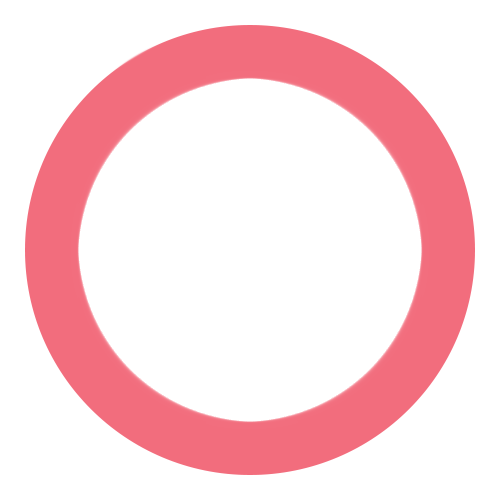
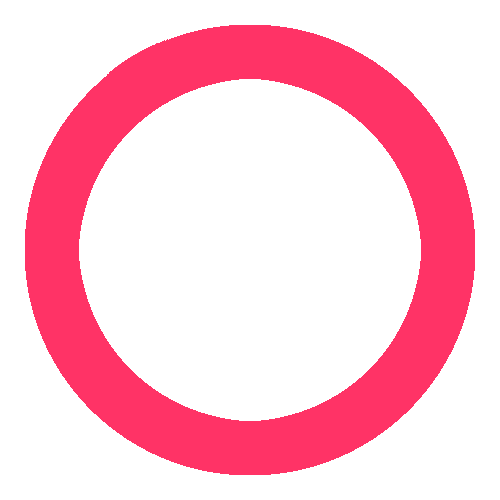
Style improvements, Info component with styling, added global styles for react index

Changed region(s): [[0.03, 0.03, 0.96, 0.96]]

diff --git a/src/styles/field.js b/src/styles/field.js
@@ -6,13 +6,15 @@ import {css} from 'glamor';
 const entry = css.keyframes({
   '0%' : { opacity : 0} ,
   '100%' : { opacity : 1},
-})
+});
 
 export const click = css.keyframes({
   '0%' : { transform : 'scale(1)'},
   '50%' : { transform : 'scale(1.1)'},
   '100%' : { transform : 'scale(1)'}
-})
+});
+
+
 
 // OBJECT with styles to use inside component
 export default {
@@ -22,7 +24,7 @@ export default {
     height : '25vh',
     maxWidth : '25vw',
     maxHeight : '25vw',
-    backgroundColor : '#a3dfae',
+    backgroundColor : '#23324e',
     animation : entry +' 1s',
     textAlign : 'center',
     alignItems : 'center',
@@ -47,6 +49,16 @@ export default {
     margin : '0 auto',
     width : '100%',
     height : '100%',
+  }),
+  blocked : css({
+    userSelect: 'none',
+    WebkitUserSelect : 'none',
+    MozUserSelect : 'none',
+    MsUserSelect : 'none',
+    userDrag : 'none',
+    WebkitUserDrag : 'none',
+    MozUserDrag : 'none',
+    MsUserDrag : 'none',
   }),
 };
 

diff --git a/src/styles/info.js b/src/styles/info.js
@@ -1,0 +1,38 @@
+import {css} from 'glamor';
+
+export default {
+  header : css({
+    width : '80vw',
+    margin : '0 auto',
+    minHeight : '5vh',
+    boxSizing : 'border-box',
+    backgroundColor : '#f92672',
+    border : '1em solid #f92672',
+    borderBottomLeftRadius : '1em',
+    borderBottomRightRadius : '1em',
+  }),
+  infoHead : css({
+    width : '100%',
+    margin : '0',
+    padding : '.3em',
+    color : '#F8CA00',
+    textAlign : 'center',
+    backgroundColor : '#b01550',
+    borderRadius : '.4em',
+  }),
+  mainInfo : css({
+    margin : '0 auto',
+    maxWidth : '80vw',
+    display : 'flex',
+    flexWrap : "wrap",
+  }),
+  pInfo: css({
+    flex : "1",
+    margin : '0.2em',
+    padding : '.5em',
+    borderRadius : '.5em',
+    backgroundColor : '#b01550',
+    color : '#F9DA11',
+    textAlign : "center",
+  }),
+}

diff --git a/src/components/info.js b/src/components/info.js
@@ -1,11 +1,19 @@
 import React from 'react';
+import reset from 'glamor-reset';
 
+import css from '../styles/info';
 
 class Info extends React.Component{
-  // container with informations about game
+  // container with complete information about actual game
   render(){
     return (
-      <h3>Info Block</h3>
+      <header className={css.header}>
+        <article className={css.mainInfo}> 
+          <p className={css.pInfo}>Turn: </p>
+          <h3 className={css.pInfo}>TicTacToe!</h3>
+          <p className={css.pInfo}>Turn time: </p>
+        </article>
+      </header>
     )
   }
 }

diff --git a/src/styles/board.js b/src/styles/board.js
@@ -14,13 +14,13 @@ export default {
     width: '85vh',
     height : '85vh',
     margin : '10px auto',
-    borderRadius : '2em',
-    backgroundColor : '#a6b5e1',
+    borderRadius : '5%',
+    backgroundColor : '#c07020',
     display : 'flex',
-    verticalAlign : 'middle'
+    verticalAlign : 'middle',
   },
   {
-    '@media (max-width : 768px)' : {
+    '@media (max-width : 1240px)' : {
       width: '85vw',
       height : '85vw',
       maxWidth : '85vh',

diff --git a/src/components/field.js b/src/components/field.js
@@ -67,7 +67,7 @@ class Field extends React.Component {
    */
   renderImg(ev){
       if(this.state.value && ev){
-        ev.target.innerHTML = `<img src=${this.state.value} class='${css.img}'></img>`
+        ev.target.innerHTML = `<img src=${this.state.value} class='${css.img} ${css.blocked}'></img>`
       }
   }
 

diff --git a/src/index.js b/src/index.js
@@ -4,11 +4,12 @@ import ReactDOM from 'react-dom';
 import reset from 'glamor-reset';
 
 // custom imports
+import css from './styles/global';
 import Board from './components/board';
 import Info from './components/info';
 
 ReactDOM.render(
-  <main>
+  <main className={css.body}>
     <Info/>
     <Board/>
   </main>

diff --git a/src/styles/global.js b/src/styles/global.js
@@ -1,0 +1,12 @@
+import {css} from 'glamor';
+
+export default {
+  body : css({
+    backgroundColor : '#202020',
+    maxWidth : '100%',
+    width : '100vw',
+    height : '100vh',
+  }),
+
+
+}
